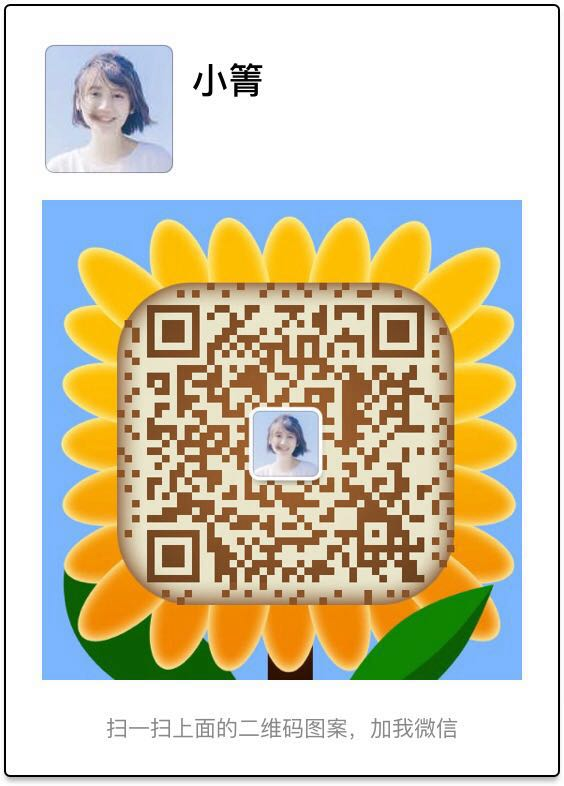
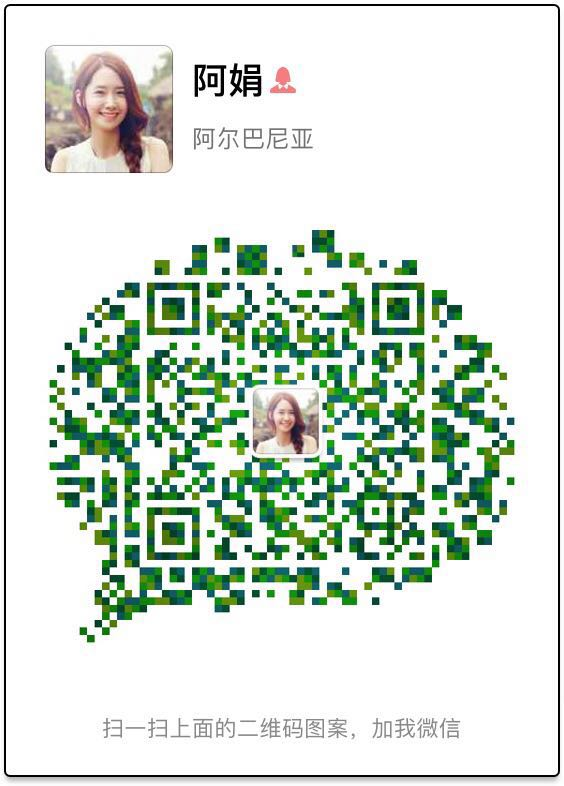
2017-05-18:

diff --git a/README.md b/README.md
@@ -10,7 +10,7 @@ _这是一个简单的智能助理微信机器人,主要有以下功能:_
 
 [零编程打造一款私人智能助理](https://www.zhihu.com/lives/846360223609413632)
 
-我还在开发更多的功能,扫描下方二维码,加小箐微信,回复"伊夫智能",她将拉你进智能机器人开发讨论群:
+我还在开发更多的功能,扫描下方二维码,加阿娟微信,回复"智能",她将拉你进智能机器人开发讨论群:
 
 ![二维码](./wechat/qrcode.png)
 
